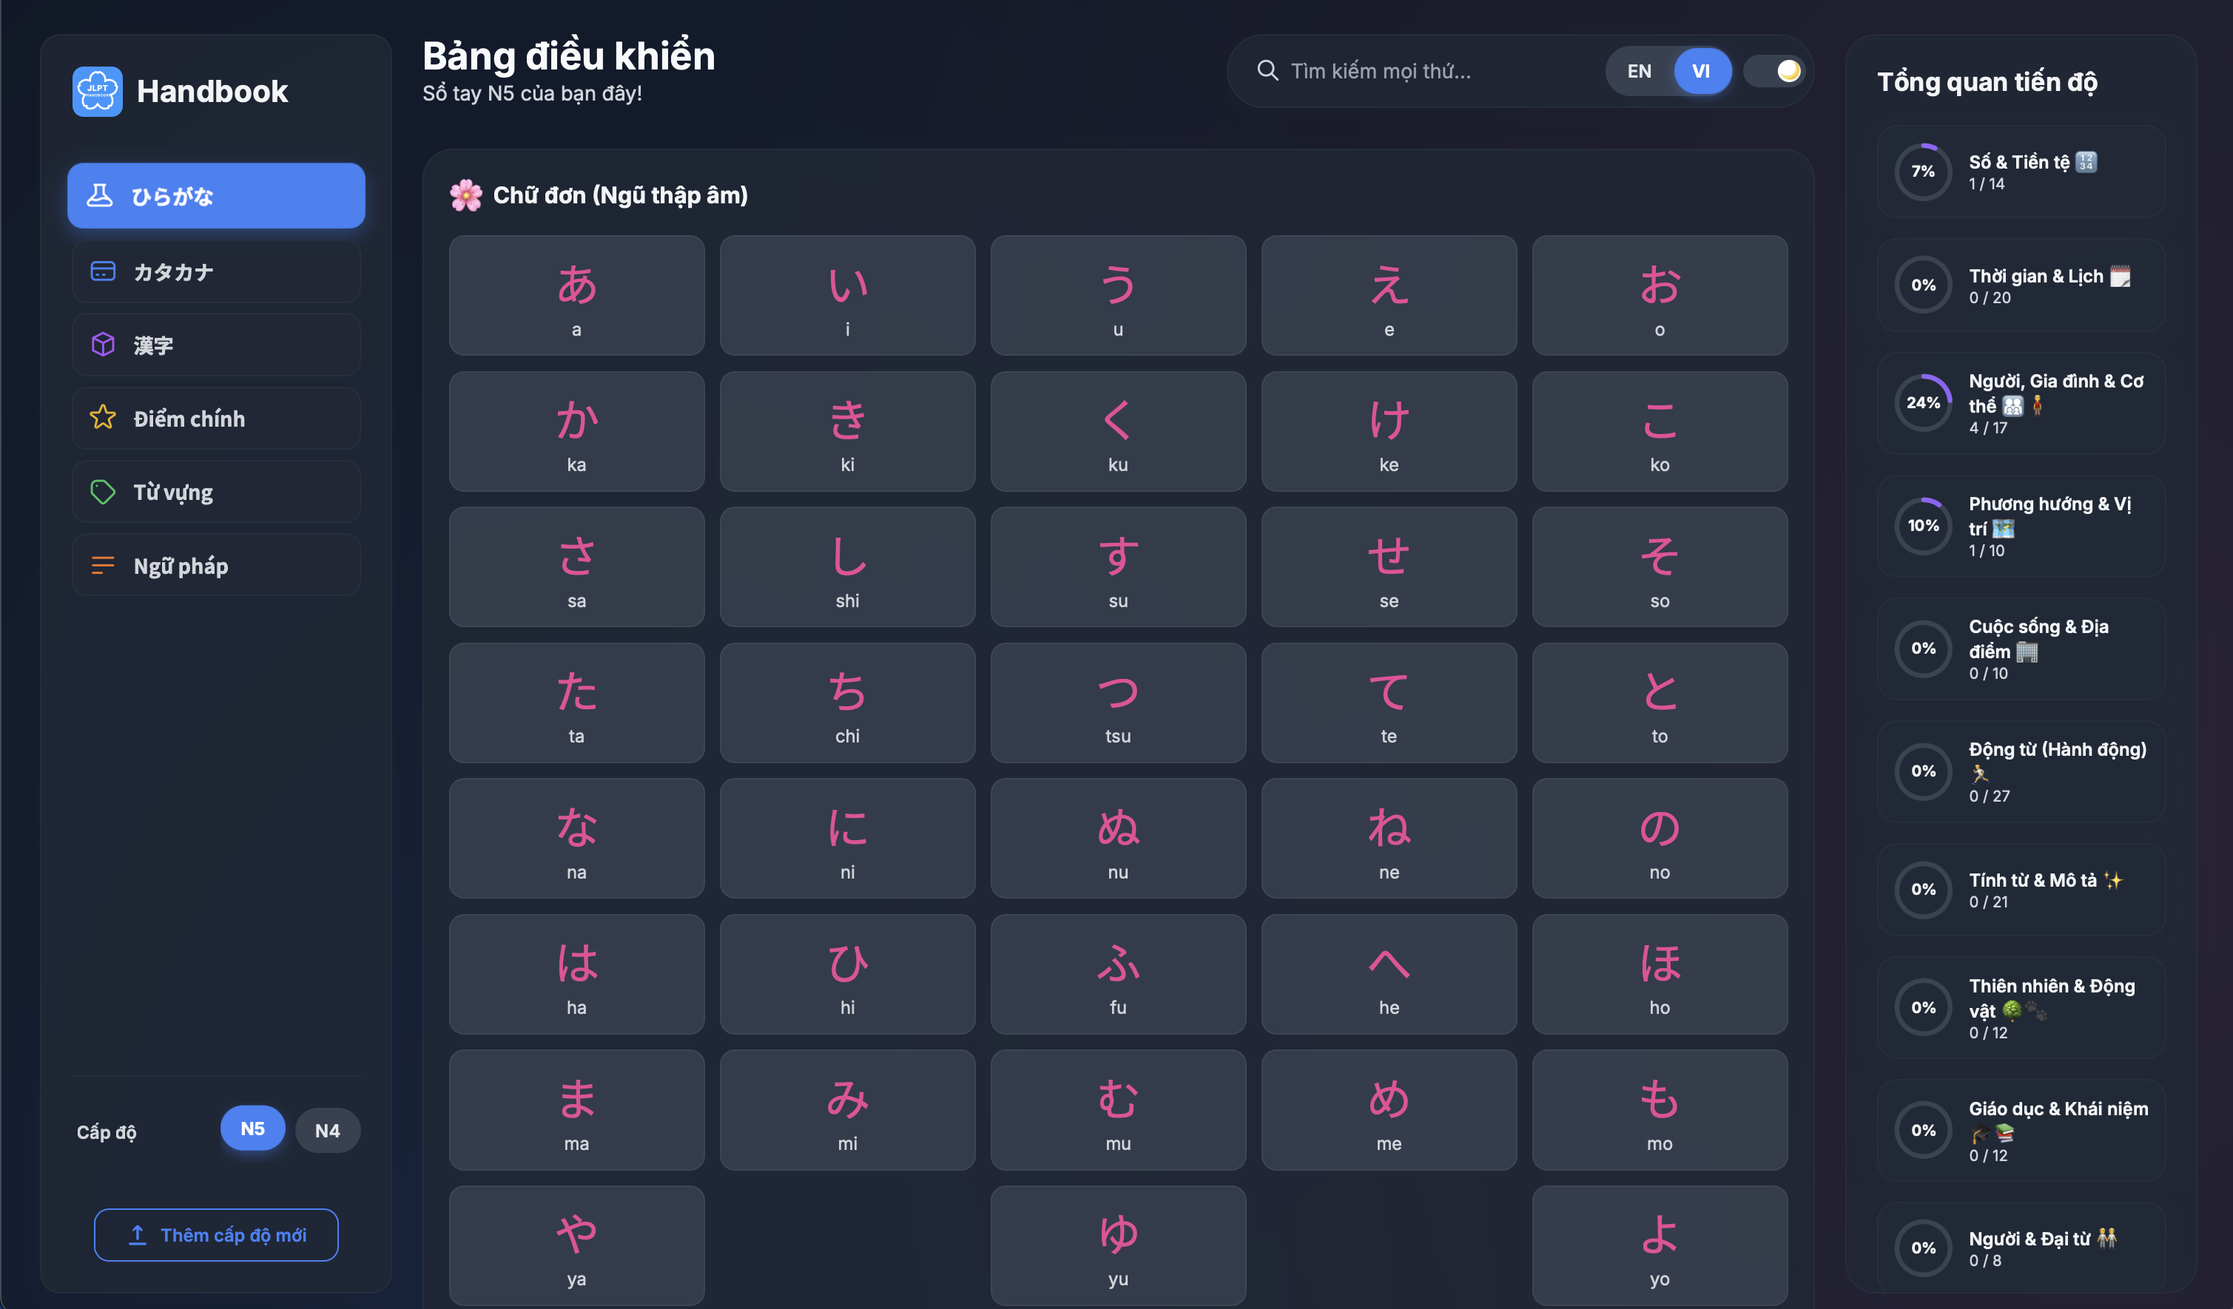
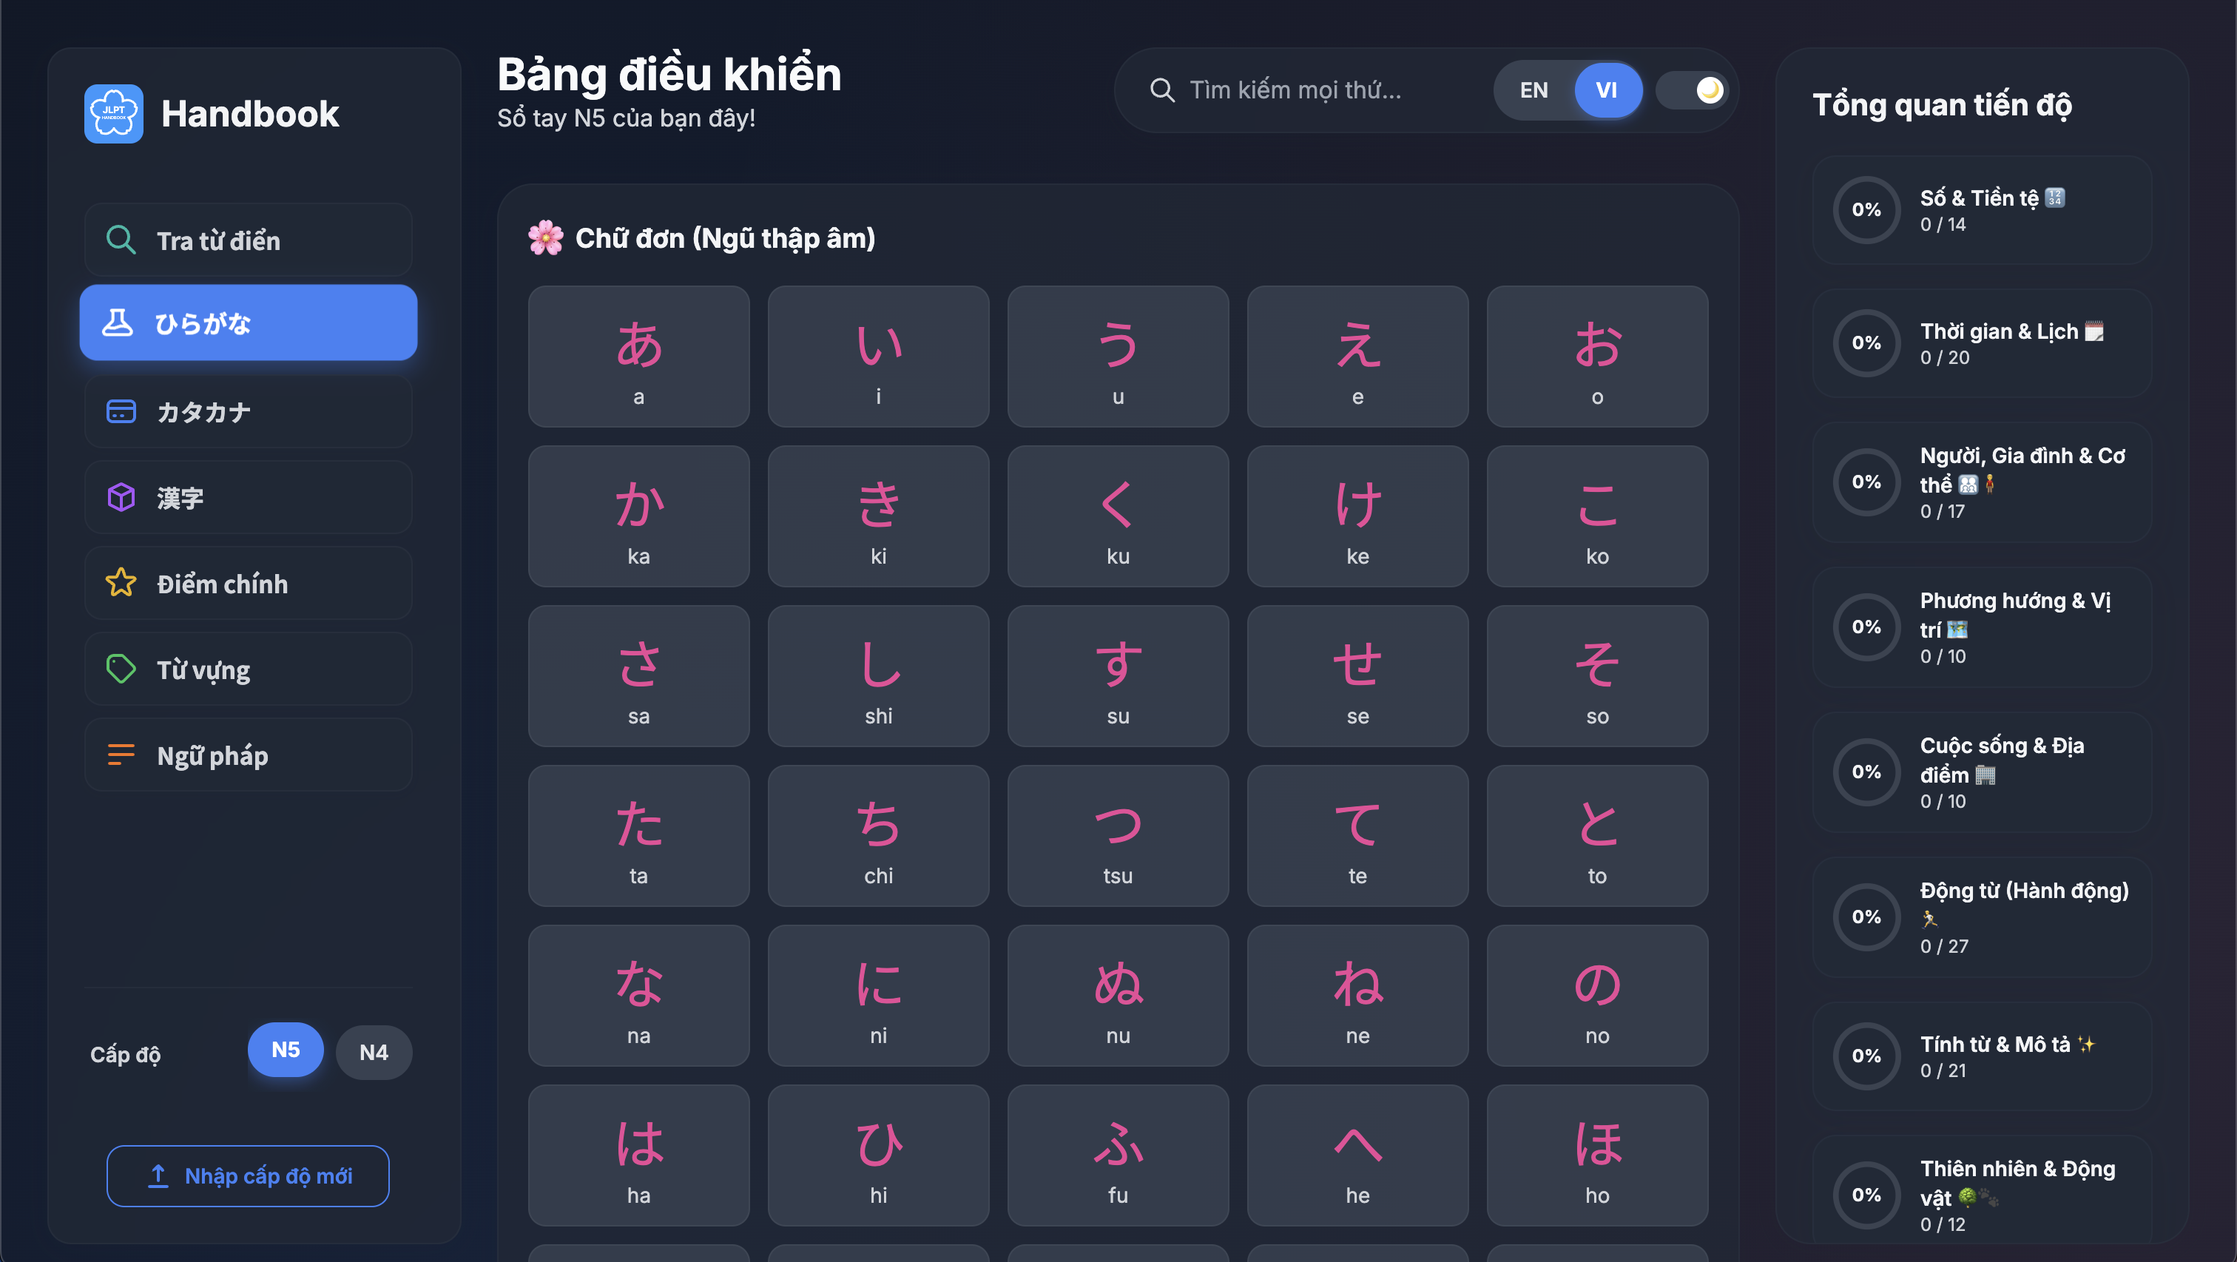
update readme

diff --git a/README.md b/README.md
@@ -1,9 +1,10 @@
-<p align="center">
-  <img src="./assets/siteIcon.png" alt="Japanese Language Handbook Logo" width="120">
-</p>
-<h1 align="center">Japanese Language Handbook</h1>
 
-> An interactive, multi-level web application to help you study Japanese. Start with the built-in **JLPT N5** material or **import your own custom study levels**. Features comprehensive study materials, per-level progress tracking, advanced fuzzy search, and a bilingual interface (English/Vietnamese).
+\<p align="center"\>
+\<img src="./assets/siteIcon.png" alt="Japanese Language Handbook Logo" width="120"\>
+\</p\>
+\<h1 align="center"\>Japanese Language Handbook\</h1\>
+
+> An interactive, multi-level web application to help you study Japanese. Start with the built-in **JLPT N5 & N4** material or **import your own custom study levels**. Features comprehensive study materials, progress tracking, a bilingual interface, and an integrated dictionary search.
 
 -----
 
@@ -15,46 +16,47 @@
 
 | Light Mode                                   | Dark Mode                                   |
 | :------------------------------------------- | :------------------------------------------ |
-| ![App Screenshot Light](./AppDemo-Light.png) | ![App Screenshot Dark](./AppDemo-Dark.png) |
+|  |  |
 
 ## ✨ Features
 
 This application has been rebuilt to be a flexible and powerful study tool.
 
-- **🗂 Multi-Level System:**
-  - Comes pre-loaded with a complete **JLPT N5** handbook.
-  - Instantly switch between the default level and any custom levels you've imported.
-  - Easily delete custom levels you no longer need with a dedicated button that appears right in the level switcher.
-- **⬆ Import Custom Levels:**
-  - Create your own study sets using a simple **CSV file structure**.
-  - Use the in-app import tool to add new levels (e.g., N4, N3, or specialized vocabulary lists).
-  - Imported levels are stored locally in your browser, so they're always available to you.
-- **💾 Persistent Local Data:**
-  - The app uses **IndexedDB** to save all your data in the browser—no backend needed.
-  - Progress (learned Kanji/Vocab) is saved **per level**.
-  - Your preferred theme, language, current level, and pinned tab are remembered for your next visit.
-- **📌 Pin Your Favorite Tab:**
-  - Set any main content tab (like *Kanji*, *Vocab*, or *Grammar*) as your default.
-  - The app will automatically open your pinned tab on launch.
-  - **On Desktop:** Pin or unpin any tab directly from the sidebar for quick workflow changes.
-  - **On Mobile:** A dedicated pin icon in the header allows you to quickly pin the current view.
-- **🔍 Advanced Fuzzy Search:**
-  - Instantly filter content within any tab using the search bar.
-  - Powered by **Fuse.js** for intelligent, typo-tolerant searching.
-  - Integrated with **Wanakana.js**, so you can search in English, Romaji, Hiragana, or Katakana, and it will find the right content.
-- **📊 Real-Time Progress Dashboard:**
-  - Mark Kanji and Vocabulary as "learned" with a single click on a card.
-  - The dashboard gives a visual overview of your mastery for each category within the current level.
-  - Click any category in the dashboard to jump directly to that section for quick review.
-- **📖 Detail Kanji Modal:**
-  - Click on a Kanji card to open a detailed modal with more information.
-  - The modal includes examples, mnemonic, radical, and a sentence with furigana.
-- **🌐 Bilingual Interface (EN/VI):**
-  - Instantly switch the entire UI between **English** and **Vietnamese**.
-  - Language preference is saved for your next session.
-- **🎨 Dual Themes & Responsive Design:**
-  - Choose between a clean **Light Mode** and a sleek **Dark Mode**.
-  - The layout is fully responsive, offering a polished experience on desktop, tablet, and mobile, complete with a slide-in sidebar.
+  - **🗂 Multi-Level System:**
+      - Comes pre-loaded with a complete **JLPT N5 & N4** handbook.
+      - Instantly switch between the default level and any custom levels you've imported.
+      - Easily delete custom levels you no longer need with a dedicated button that appears right in the level switcher.
+  - **⬆ Import Custom Levels:**
+      - Create your own study sets using a simple **CSV file structure**.
+      - Use the in-app import tool to add new levels (e.g., N4, N3, or specialized vocabulary lists).
+      - Imported levels are stored locally in your browser, so they're always available to you.
+  - **💾 Persistent Local Data:**
+      - The app uses **IndexedDB** to save all your data in the browser—no backend needed.
+      - Progress (learned Kanji/Vocab) is saved **per level**.
+      - Your preferred theme, language, current level, and pinned tab are remembered for your next visit.
+  - **🌐 Bilingual Interface (EN/VI):**
+      - Instantly switch the entire UI between **English** and **Vietnamese**.
+      - Language preference is saved for your next session.
+  - **🔍 Advanced Fuzzy Search:**
+      - Instantly filter content within any tab using the search bar.
+      - Powered by **Fuse.js** for intelligent, typo-tolerant searching across Japanese and English terms.
+  - **📖 Integrated Dictionary Search:**
+      - A dedicated tab for searching a comprehensive external dictionary.
+      - Look up Japanese words, kanji, or English definitions.
+      - Provides detailed results including readings, senses, and parts of speech.
+  - **💡 Detailed Kanji View:**
+      - Click on a Kanji card or a Kanji character within a dictionary result to open a detailed modal.
+      - The modal provides rich information, including example words, mnemonics, radical data, and an example sentence with furigana.
+  - **📊 Real-Time Progress Dashboard:**
+      - Mark Kanji and Vocabulary as "learned" with a single click on a card.
+      - The dashboard gives a visual overview of your mastery for each category within the current level.
+      - Click any category in the dashboard to jump directly to that section for quick review.
+  - **📌 Pin Your Favorite Tab:**
+      - Set any main content tab (like *Kanji*, *Vocab*, or *Grammar*) as your default.
+      - The app will automatically open your pinned tab on launch for the current level.
+  - **🎨 Dual Themes & Responsive Design:**
+      - Choose between a clean **Light Mode** and a sleek **Dark Mode**.
+      - The layout is fully responsive, offering a polished experience on desktop, tablet, and mobile.
 
 ## 🛠 How to Create and Import a Custom Level
 
@@ -62,23 +64,25 @@ You can extend the handbook by creating your own levels.
 
 1.  **Prepare Your Data Files:**
     Create a folder for your new level (e.g., `my-n4-level`). Inside, create **CSV** files for the content you want to add. Supported filenames are:
-    - `hiragana.csv`
-    - `katakana.csv`
-    - `kanji.csv`
-    - `vocab.csv`
-    - `grammar.csv`
-    - `keyPoints.csv`
+
+      - `hiragana.csv`
+      - `katakana.csv`
+      - `kanji.csv`
+      - `vocab.csv`
+      - `grammar.csv`
+      - `keyPoints.csv`
 
     You don't need to include all files—only the ones for the content you're adding. See the "CSV File Structure Guide" section below for detailed column requirements.
 
 2.  **Use the Import Tool:**
-    - Open the handbook application.
-    - Open the sidebar (click the `☰` icon on mobile).
-    - Click the **"Import New Level"** button.
-    - In the modal window that appears:
-      - Enter a unique, simple name for your level (e.g., `n4`, `business-vocab`). This name cannot already exist.
-      - Drag-and-drop your CSV files onto the designated area, or click to open a file selector.
-    - Click **"Import Level"**. The app will save your new level to the browser's database and switch to it automatically.
+
+      - Open the handbook application.
+      - Open the sidebar (click the `☰` icon on mobile).
+      - Click the **"Import New Level"** button.
+      - In the modal window that appears:
+          - Enter a unique, simple name for your level (e.g., `n4`, `business-vocab`). This name cannot already exist.
+          - Drag-and-drop your CSV files onto the designated area, or click to open a file selector.
+      - Click **"Import Level"**. The app will save your new level to the browser's database and switch to it automatically.
 
 ## 📝 CSV File Structure Guide
 
@@ -89,113 +93,108 @@ Each CSV file **must** include a header row with the exact column names specifie
 > **Example:** `"<b>Example:</b> 週末、映画を見に行こう。"`
 
 ### Hiragana & Katakana (`hiragana.csv` / `katakana.csv`)
+
 | kana | romaji |
 |------|--------|
 | あ   | a      |
 | い   | i      |
-| う   | u      |
-| え   | e      |
-| お   | o      |
 
-- **kana:** The Hiragana or Katakana character(s).
-- **romaji:** The Romaji equivalent.
+  - **kana:** The Hiragana or Katakana character(s).
+  - **romaji:** The Romaji equivalent.
 
 ### Kanji (`kanji.csv`)
-| kanji | onyomi | kunyomi | meaning_en | meaning_vi | radical_en | radical_vi | mnemonic_en | mnemonic_vi |
-|-------|--------|---------|------------|------------|------------|------------|-------------|-------------|
-| 日    | ニチ   | ひ      | day; sun   | ngày; mặt trời | Sun        | Mặt trời   | A sun has a single, long ray going down. | Mặt trời có một tia sáng dài chiếu xuống. |
-| 一    | イチ   | ひと    | one        | một        | One        | Một        | A single stroke, representing unity or one. | Một nét đơn, tượng trưng cho sự thống nhất hoặc số một. |
-| 人    | ジン   | ひと    | person; people | người; con người | Person     | Người      | A person standing on two legs. | Một người đứng trên hai chân. |
 
-- **kanji:** The Kanji character.
-- **onyomi:** The On'yomi reading (Katakana/Romaji).
-- **kunyomi:** The Kun'yomi reading (Hiragana/Romaji).
-- **meaning_en:** English meaning.
-- **meaning_vi:** Vietnamese meaning.
-- **radical_en:** English radical information.
-- **radical_vi:** Vietnamese radical information.
-- **mnemonic_en:** English mnemonic (memory aid).
-- **mnemonic_vi:** Vietnamese mnemonic (memory aid).
+| kanji | onyomi | kunyomi | meaning\_en | meaning\_vi | radical\_en | radical\_vi | mnemonic\_en | mnemonic\_vi |
+|-------|--------|---------|------------|------------|------------|------------|-------------|-------------|
+| 日    | ニチ   | ひ      | day; sun   | ngày; mặt trời | Sun        | Mặt trời   | A sun has a single... | Mặt trời có một... |
+
+  - **kanji:** The Kanji character.
+  - **onyomi:** The On'yomi reading.
+  - **kunyomi:** The Kun'yomi reading.
+  - **meaning\_en / meaning\_vi:** The meaning in the respective language.
+  - **radical\_en / radical\_vi:** The radical information.
+  - **mnemonic\_en / mnemonic\_vi:** The mnemonic (memory aid).
 
 > **Note:** Examples and sentence data are *not* currently supported for import via CSV for Kanji cards.
 
 ### Vocabulary (`vocab.csv`)
-| word | reading | meaning_en | meaning_vi |
+
+| word | reading | meaning\_en | meaning\_vi |
 |------|---------|------------|------------|
 | これ | これ    | this      | cái này   |
 | それ | それ    | that      | cái đó    |
-| あれ | あれ    | that (over there) | cái kia |
 
-- **word:** The Japanese vocabulary word (Kanji/Kana).
-- **reading:** The reading in Hiragana.
-- **meaning_en:** The English meaning.
-- **meaning_vi:** The Vietnamese meaning.
+  - **word:** The Japanese vocabulary word (Kanji/Kana).
+  - **reading:** The reading in Hiragana.
+  - **meaning\_en / meaning\_vi:** The meaning in the respective language.
 
 ### Grammar (`grammar.csv`)
-| title_en       | content_en                                                               | title_vi     | content_vi                                                  |
-|----------------|--------------------------------------------------------------------------|--------------|-------------------------------------------------------------|
-| Particle は    | "Used to mark the topic of a sentence. It indicates what you are talking about." | Trợ từ は    | "Dùng để đánh dấu chủ đề của câu. Nó cho biết bạn đang nói về cái gì." |
-| Particle の    | "Indicates possession or modifies a noun."                                 | Trợ từ の    | "Chỉ sự sở hữu hoặc bổ nghĩa cho danh từ."                     |
-| Verb ます-form | "Used for polite present/future affirmative verbs."                        | Động từ thể ます | "Dùng cho động từ khẳng định ở thì hiện tại/tương lai lịch sự." |
 
-- **title_en:** The English title of the grammar point.
-- **content_en:** The English explanation/examples (supports HTML).
-- **title_vi:** The Vietnamese title of the grammar point.
-- **content_vi:** The Vietnamese explanation/examples (supports HTML).
+| title\_en       | content\_en                                 | title\_vi     | content\_vi                                   |
+|----------------|--------------------------------------------|--------------|----------------------------------------------|
+| Particle は    | "Marks the topic..."                       | Trợ từ は    | "Dùng để đánh dấu chủ đề..."                  |
+| Particle の    | "Indicates possession..."                    | Trợ từ の    | "Chỉ sự sở hữu..."                           |
+
+  - **title\_en / title\_vi:** The title of the grammar point.
+  - **content\_en / content\_vi:** The explanation/examples (supports HTML).
 
 ### Key Points (`keyPoints.csv`)
-| character | reading | meaning_en | meaning_vi | number |
-|-----------|---------|------------|------------|--------|
-| 上         | うえ    | up; above  | trên       |        |
-| 下         | した    | down; below| dưới      |        |
-| 左         | ひだり  | left       | trái       |        |
-| 右         | みぎ    | right      | phải       |        |
-| 千         | せん    | thousand   | ngàn       | 1000   |
 
-- **character:** The Kanji or Kana character (optional).
-- **reading:** The reading in Kana/Romaji.
-- **meaning_en:** The English translation.
-- **meaning_vi:** The Vietnamese translation.
-- **number:** The related number (optional).
+| Kanji     | Reading | en         | vi    | Number |
+|-----------|---------|------------|-------|--------|
+| 上         | うえ    | up; above  | trên  |        |
+| 下         | した    | down; below| dưới |        |
+| 千         | せん    | thousand   | ngàn  | 1000   |
 
-> **Note:** Imported keyPoints will always display as a simple list, even if the original data had a table-grid structure.
+  - **Kanji:** The primary display character (optional).
+  - **Reading:** The reading in Kana/Romaji.
+  - **en / vi:** The translation in the respective language.
+  - **Number:** The related number (optional).
+
+> **Note:** Imported keyPoints will always display as a simple list.
 
 ## 💻 Setting Up Locally
 
 To run the project locally, you need to have **Node.js** and **npm** installed.
 
 1.  **Clone the repository:**
+
     ```bash
     git clone https://github.com/ghuyphan/n5-handbook.git
     cd n5-handbook
     ```
+
 2.  **Install dependencies:**
+
     ```bash
     npm install
     ```
+
 3.  **Run the development server:**
+
     ```bash
     npm run watch
     ```
+
     This command will watch for changes in your CSS files and recompile them automatically.
 
 4.  **Open with Live Server:**
-    - Install the [Live Server](https://marketplace.visualstudio.com/items?itemName=ritwickdey.LiveServer) extension in VS Code.
-    - Right-click `index.html` → "Open with Live Server".
+
+      - Install the [Live Server](https://marketplace.visualstudio.com/items?itemName=ritwickdey.LiveServer) extension in VS Code.
+      - Right-click `index.html` → "Open with Live Server".
 
 ## 🔧 Built With
 
-- **HTML5** & **CSS3**
-- **Vanilla JavaScript (ESM)**
-- **Tailwind CSS**
-- **JSON**
+  - **HTML5** & **CSS3**
+  - **Vanilla JavaScript (ESM)**
+  - **Tailwind CSS**
+  - **JSON** for data structure
 
 ### Libraries
-- [idb](https://github.com/jakearchibald/idb) - A promise-based wrapper for IndexedDB.
-- [Fuse.js](https://fusejs.io/) - A powerful, lightweight fuzzy-search library.
-- [Wanakana](https://wanakana.com/) - A utility library for Japanese character conversion.
 
-## 🌐 Deployment
-To create a production-ready build of the CSS:
-```bash
-npm run build
+  - [idb](https://github.com/jakearchibald/idb) - A promise-based wrapper for IndexedDB.
+  - [Fuse.js](https://fusejs.io/) - A powerful, lightweight fuzzy-search library.
+
+## 🙏 Acknowledgements
+
+  - Dictionary search functionality is powered by the official [**Jotoba**](https://jotoba.de/) API, with search results for Vietnamese supplemented by data from the excellent [**JDict**](https://jdict.net/) website.
